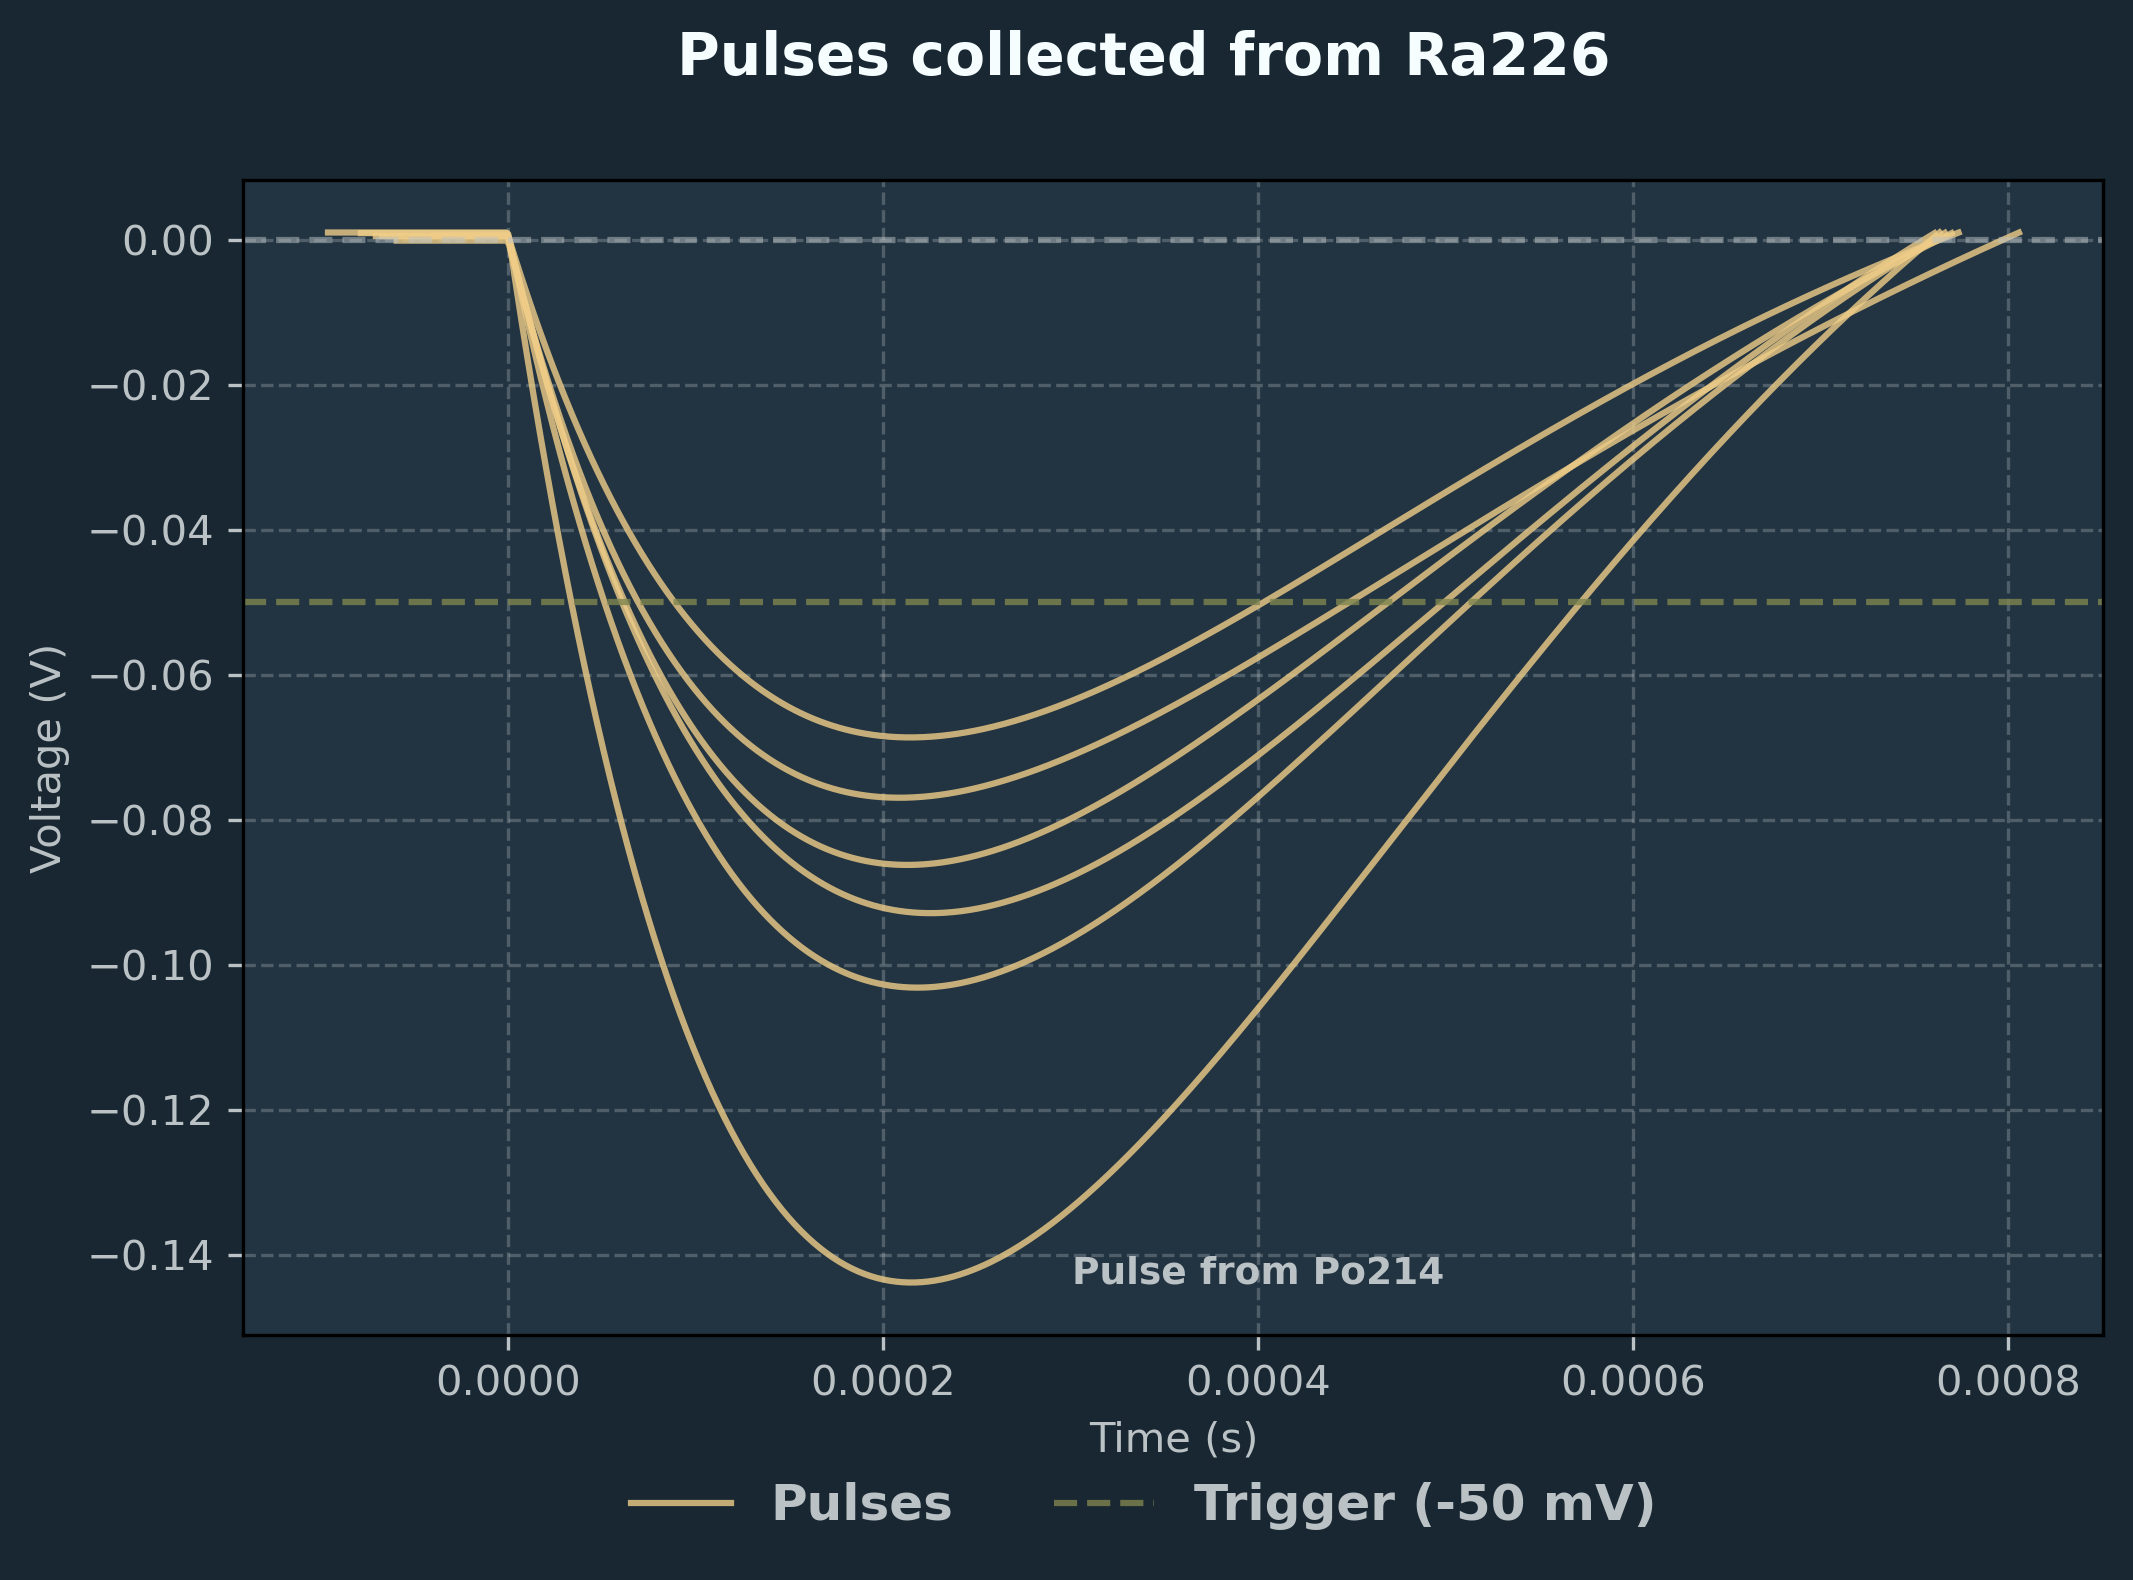
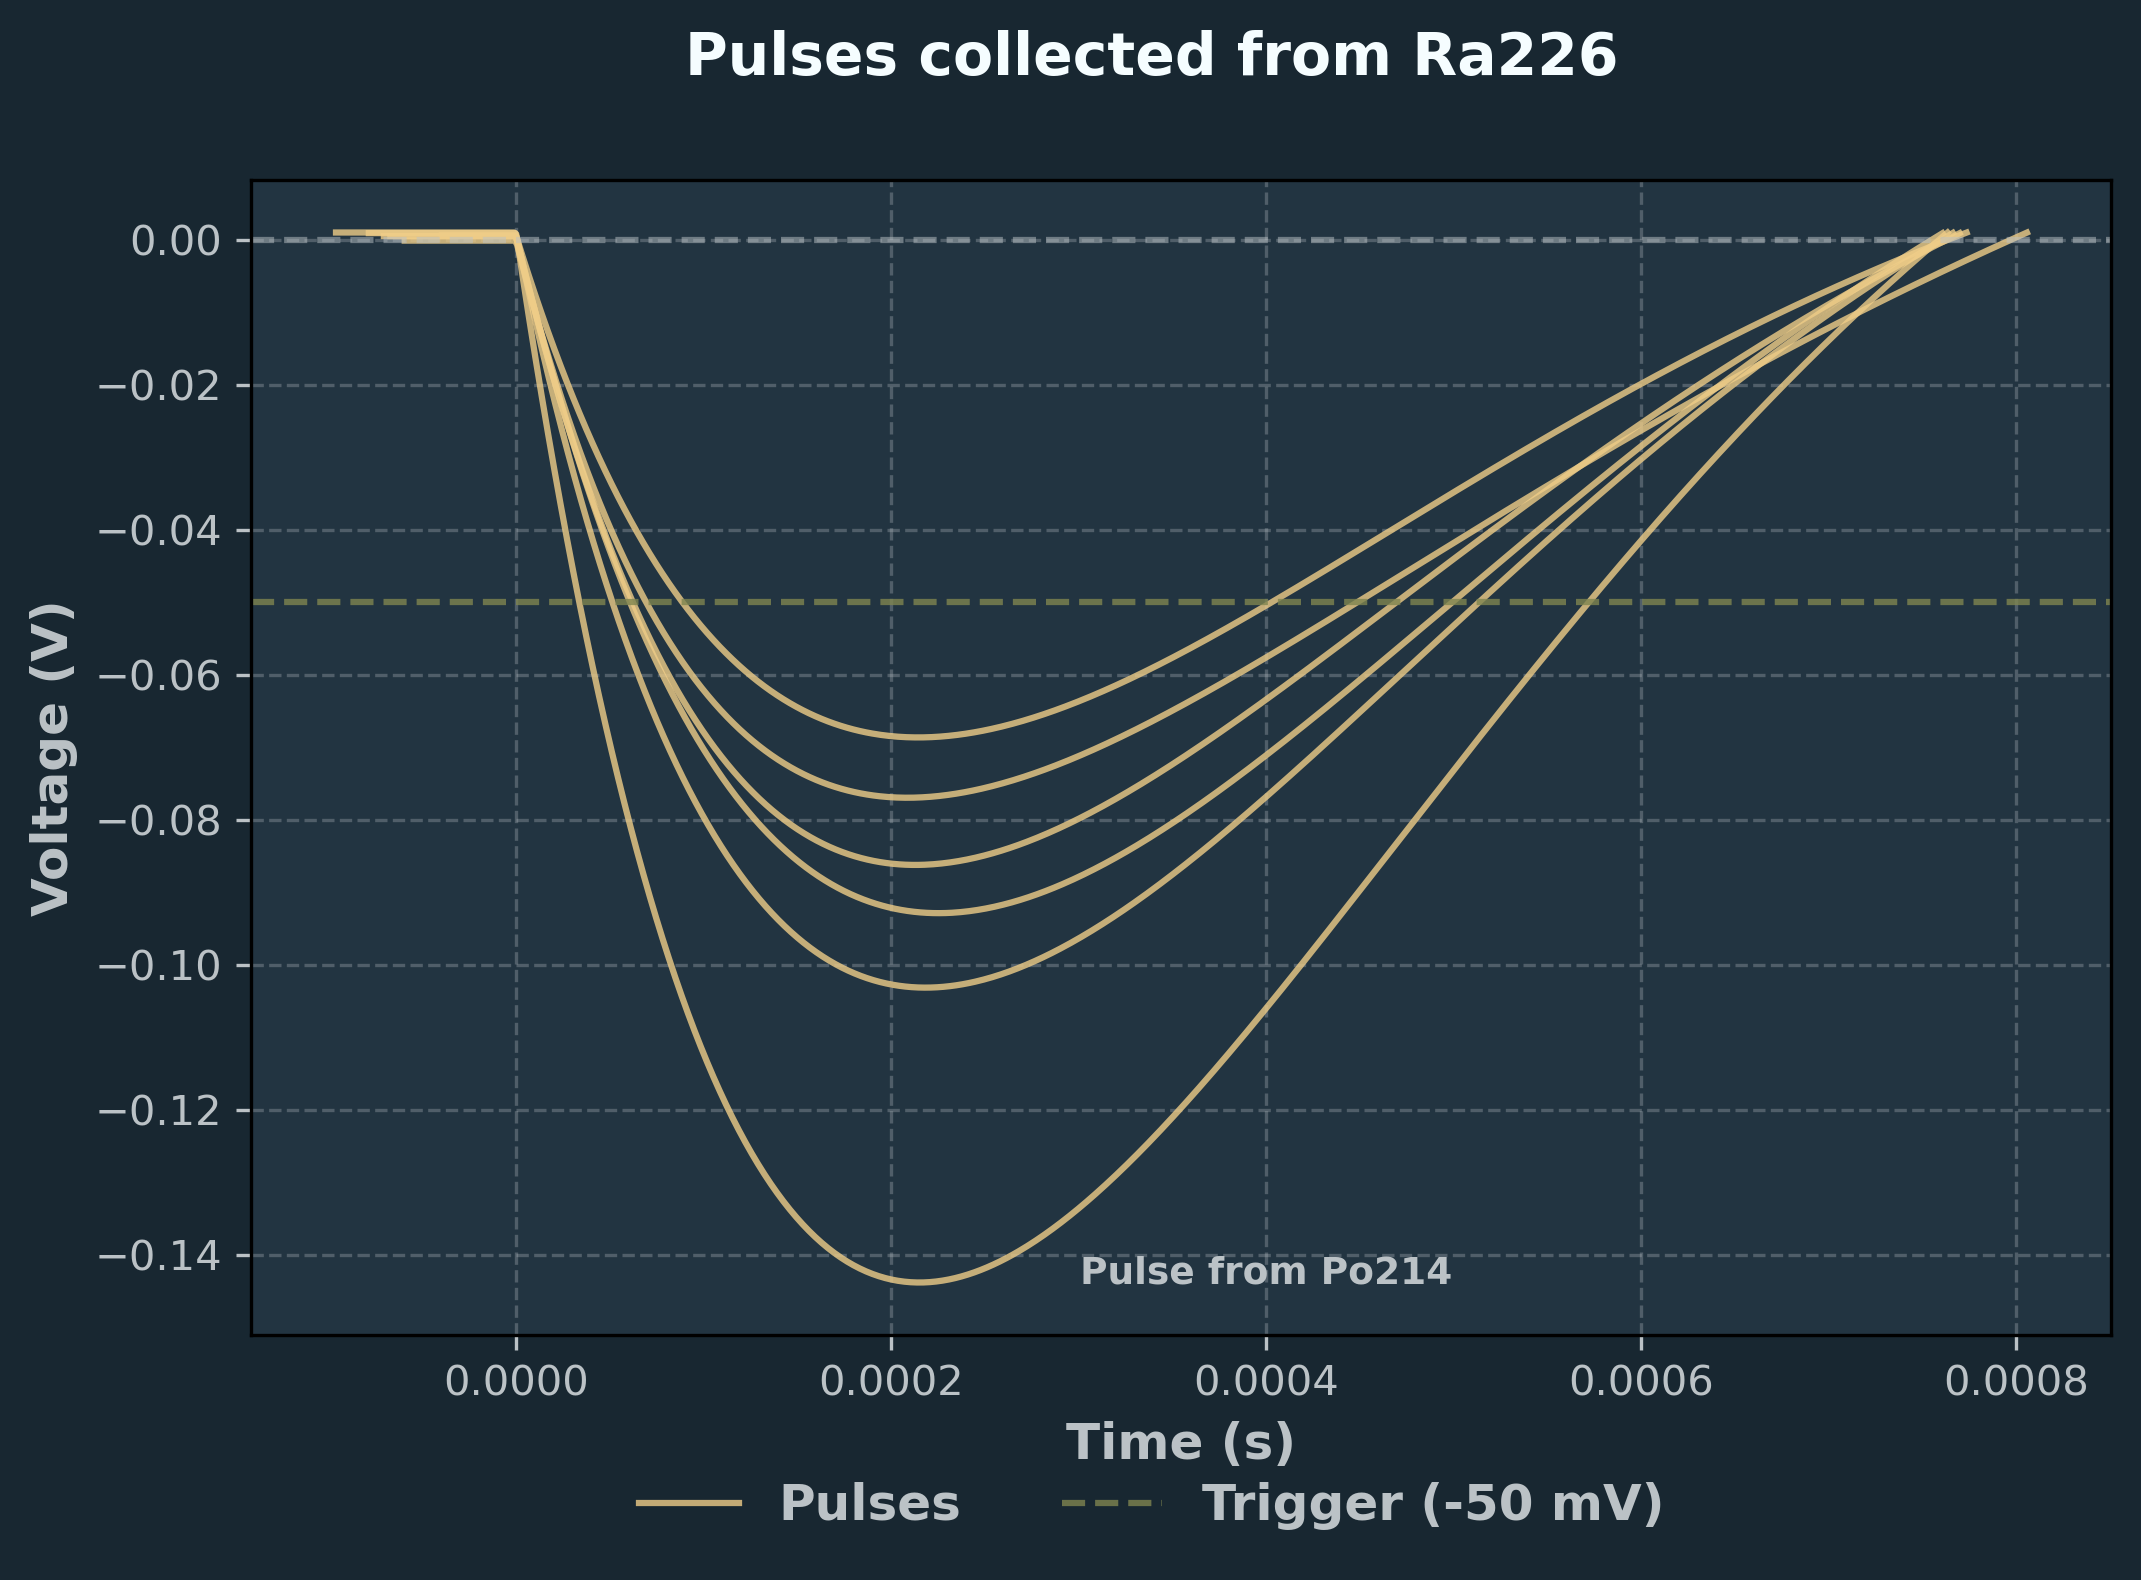
fixed pulses collected with bold face x, y

diff --git a/informative_pulses.py b/informative_pulses.py
@@ -3,8 +3,8 @@ import numpy as np
 import matplotlib.pyplot as plt
 
 # 1. Load your data
-data = pl.read_csv(r"Data\Ra-080626-2_output\fitted_params.csv")
-integral_data = pl.read_csv(r"Data\Ra-080626-2_output\pulse_integrals.csv")
+data = pl.read_csv(r"RawData\Ra-080626-2_output\fitted_params.csv")
+integral_data = pl.read_csv(r"RawData\Ra-080626-2_output\pulse_integrals.csv")
 
 # 2. Define your threshold for "very small C"
 C_THRESHOLD = 0.001  # Adjust this value based on your actual baseline scale
@@ -79,8 +79,8 @@ fig.legend(
 
 plt.suptitle("Pulses collected from Ra226", fontsize=14, weight='bold', color="#F5FDFF")
 ax.axhline(0, color='#BBC2C6', linestyle='--', alpha=0.5)
-ax.set_xlabel('Time (s)', color='#BBC2C6')
-ax.set_ylabel('Voltage (V)', color='#BBC2C6')
+ax.set_xlabel('Time (s)', color='#BBC2C6', weight='bold', fontsize=12)
+ax.set_ylabel('Voltage (V)', color='#BBC2C6', weight='bold', fontsize=12)
 ax.grid(alpha=0.3, color='#BBC2C6', linestyle='--')
 ax.set_facecolor('#223441')
 ax.tick_params(colors='#BBC2C6', which='both')